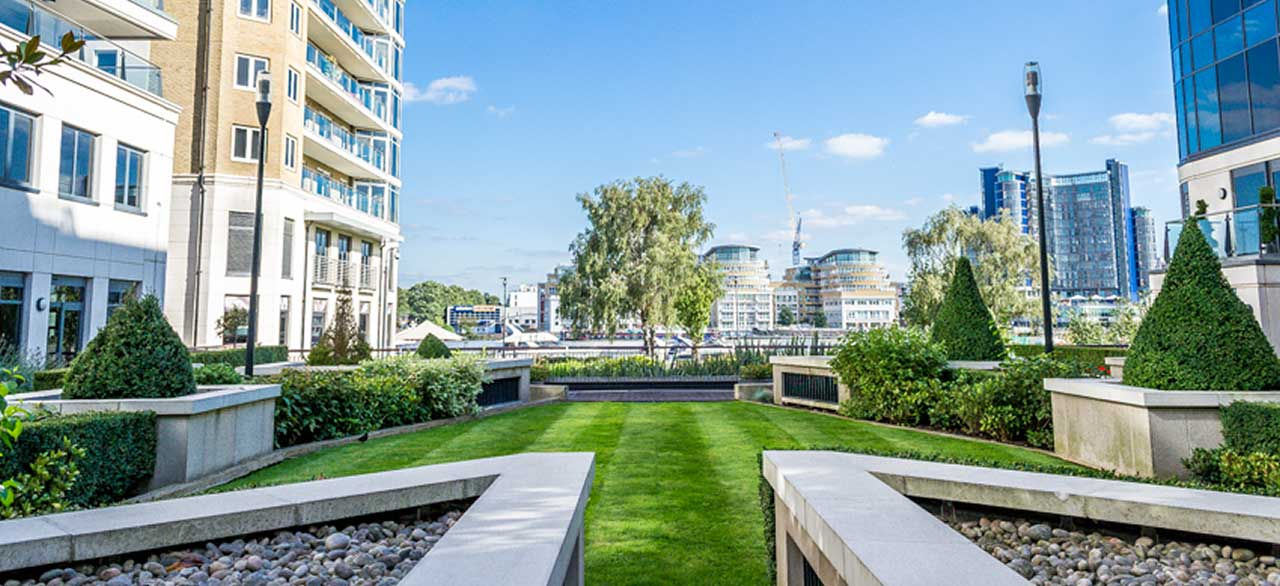
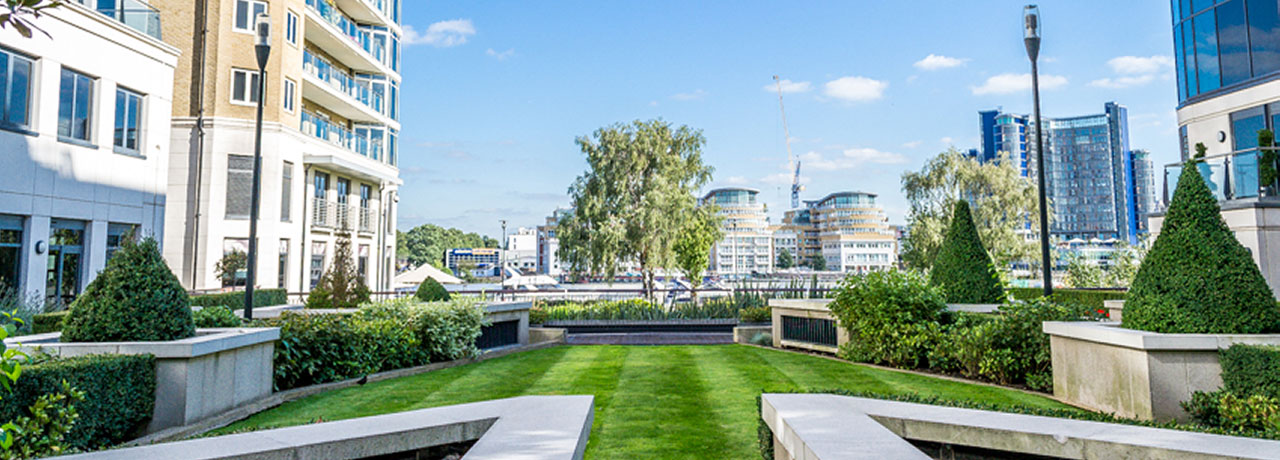
updation in all pages

diff --git a/assets/css/hollyton-style.css b/assets/css/hollyton-style.css
@@ -44,10 +44,10 @@ a:hover { color: #0c5b57;}
 #wrapper { margin: 0 auto; width:100%;}
 /*Header Start*/
 header {display: block; position: relative; z-index: 999;width:100%; }
-.banner{ width:100%; position:relative; overflow:hidden; min-height:400px;  background:url(../images/hollyton-loader.gif) no-repeat center center;}
+.banner{ width:100%; position:relative; overflow:hidden; min-height:300px;  background:url(../images/hollyton-loader.gif) no-repeat center center;}
 .banner img{ width:100%; vertical-align:bottom;}
-.header-outer{width:100%; position:absolute; top:0px; background:url(../images/top-trans-bg.png) repeat-x bottom; height:150px;}
-.header-inner{width:1200px; margin:0px auto; overflow:hidden; padding-top:50px;}
+.header-outer{width:100%; position:absolute; top:0px; background:url(../images/top-trans-bg.png) repeat-x bottom; height:130px;}
+.header-inner{width:1200px; margin:0px auto; overflow:hidden; padding-top:30px;}
 #logo {float:left;  padding-left:2%;  width:12%; height:142px;}
 #logo a { display: block; height: 142px; position:relative; z-index:1;  }
 #logo a img {  }
@@ -64,7 +64,9 @@ header {display: block; position: relative; z-index: 999;width:100%; }
 .menu li a {}
 .menu li a:hover, .menu li a:active , .active{color: #fedf00; }
 .no-divder{background:none !important; padding-right:0px !important; }
-.banner-caption{ width:1200px; margin:0px auto; position:absolute; right:0px; bottom:30px; }
+.banner-caption{ width:100%; margin:0px auto; position:absolute; bottom:30px; right:0px; }
+.banner-cap-inner{ width:1200px; margin:0px auto; right:0px; }
+
 .caption-text{  background:url(../images/banner-trans-bg.png) repeat; height:56px; width:345px; float:right; color:#fff; padding:10px;font-size:17px; line-height:18px;  right:2%; margin-right:2%; font-style:italic;}
 .caption-text span{  font:italic 14px Arial;}
 
@@ -88,7 +90,7 @@ header {display: block; position: relative; z-index: 999;width:100%; }
 #content{width:100%; background:url(../images/content-bg.jpg) repeat-x #707070; min-height:300px;}
 #heading{width:100%;background:url(../images/heading-strip.png) repeat-x;}
 .content-inner{width:1200px;margin:0px auto; overflow:hidden; }
-.content-inner h2{font-size:32px; line-height:75px; color:#fedf00; width:92%;padding:0 4%;}
+.content-inner h2{font-size:32px; line-height:48px; color:#fedf00; width:92%;padding:0 4%;}
 .content-part{width:92%; float:left; padding:0 4%; padding-top:20px;}
 .content-part p{font:bold 16px Arial; padding-bottom:20px;}
 .content-left{width:47%; padding-right:3%; float:left;}
@@ -175,6 +177,7 @@ header {display: block; position: relative; z-index: 999;width:100%; }
 @media only screen and (max-width: 800px){
 /* #top-header{width:768px; margin:0px auto;}  */
 #logo {width:12%;}
+.banner-caption{bottom:5px;}
 }
 
 @media only screen and (max-width: 750px) {
@@ -207,7 +210,7 @@ a.menu-link { display: block; background:url(../images/menu-ico.png) no-repeat s
  .ico-phone{padding-right:10px;}
 .ico-mail{padding-right:0px; }
 #content fieldset.default input,#content fieldset.default select,#content fieldset.default textarea  { width:60%;}
- 
+  .banner img{min-height:200px;}
 
 
 }
@@ -224,6 +227,7 @@ a.menu-link { display: block; background:url(../images/menu-ico.png) no-repeat s
 .ico-mail img{width:18px; height:14px; }
  .thanks-content{  top:100px;min-height:100px; }
  .nav_750{padding-top:10px;}
+
 }
 
 @media only screen and (max-width: 320px){

diff --git a/why-london.php b/why-london.php
@@ -23,10 +23,12 @@
 </div> 
 <!--Caption start here-->
 <div class="banner-caption">
+	<div class="banner-cap-inner">
 	<div class="caption-text">
    Valued in <span class="">2011</span> at <span class="">£290,000.</span> Valued in <span class="">2014</span> at <span class="">£370,000.</span> A rise of <span class="">28%.</span> Average rental yield during that time of <span class="">4%.</span>
     </div>
     </div>
+</div>
 <!--Caption End Here-->
 <div class="clear"></div>
 </header>

diff --git a/contact.php b/contact.php
@@ -25,9 +25,11 @@ include_once ROOT_PATH."/weblogic/header.php";
       </div>
     </div>
     <!--Caption start here-->
-    <div class="banner-caption">
+<div class="banner-caption">
+	<div class="banner-cap-inner">
       <div class="caption-text"> Valued in 2004 at £1,600,000. Valued in 2014 at £4,500,000. A rise of 243%. Average rental yield during that time of 3.3%. </div>
-    </div>
+      </div>
+</div>
     <!--Caption End Here-->
     <div class="clear"></div>
   </header>

diff --git a/index.php b/index.php
@@ -26,10 +26,12 @@ include_once ROOT_PATH."/weblogic/header.php";
 </div> 
 <!--Caption start here-->
 <div class="banner-caption">
+	<div class="banner-cap-inner">
 	<div class="caption-text">
     Valued in 2004 at £1,600,000. Valued in 2014 at £4,500,000. A rise of 243%. Average rental yield during that time of 3.3%.
     </div>
     </div>
+</div>
 <!--Caption End Here-->
 <div class="clear"></div>
 </header>

diff --git a/looking-invest.php b/looking-invest.php
@@ -23,9 +23,11 @@
 </div> 
 <!--Caption start here-->
 <div class="banner-caption">
+	<div class="banner-cap-inner">
 	<div class="caption-text">
 Valued in 2003 at £290,000. Valued in 2014 at £595,000. A rise of 105%. Average rental yield during that time of 4.8%.    </div>
     </div>
+</div>
 <!--Caption End Here-->
 <div class="clear"></div>
 </header>

diff --git a/property-sell.php b/property-sell.php
@@ -23,10 +23,12 @@
 </div> 
 <!--Caption start here-->
 <div class="banner-caption">
+	<div class="banner-cap-inner">
 	<div class="caption-text">
  Valued in 2012 at £465,000. Valued in 2014 at £630. A rise of 35%. Average rental yield during that time of 4.1%.
     </div>
     </div>
+</div>
 <!--Caption End Here-->
 <div class="clear"></div>
 </header>

diff --git a/philosophy.php b/philosophy.php
@@ -23,9 +23,11 @@
 </div> 
 <!--Caption start here-->
 <div class="banner-caption">
+	<div class="banner-cap-inner">
 	<div class="caption-text">Valued in 2002 at £500,000. Valued in 2014 at £850,000. A rise of 75%. Average rental yield during that time of 5%.
     </div>
     </div>
+</div>
 <!--Caption End Here-->
 <div class="clear"></div>
 </header>
